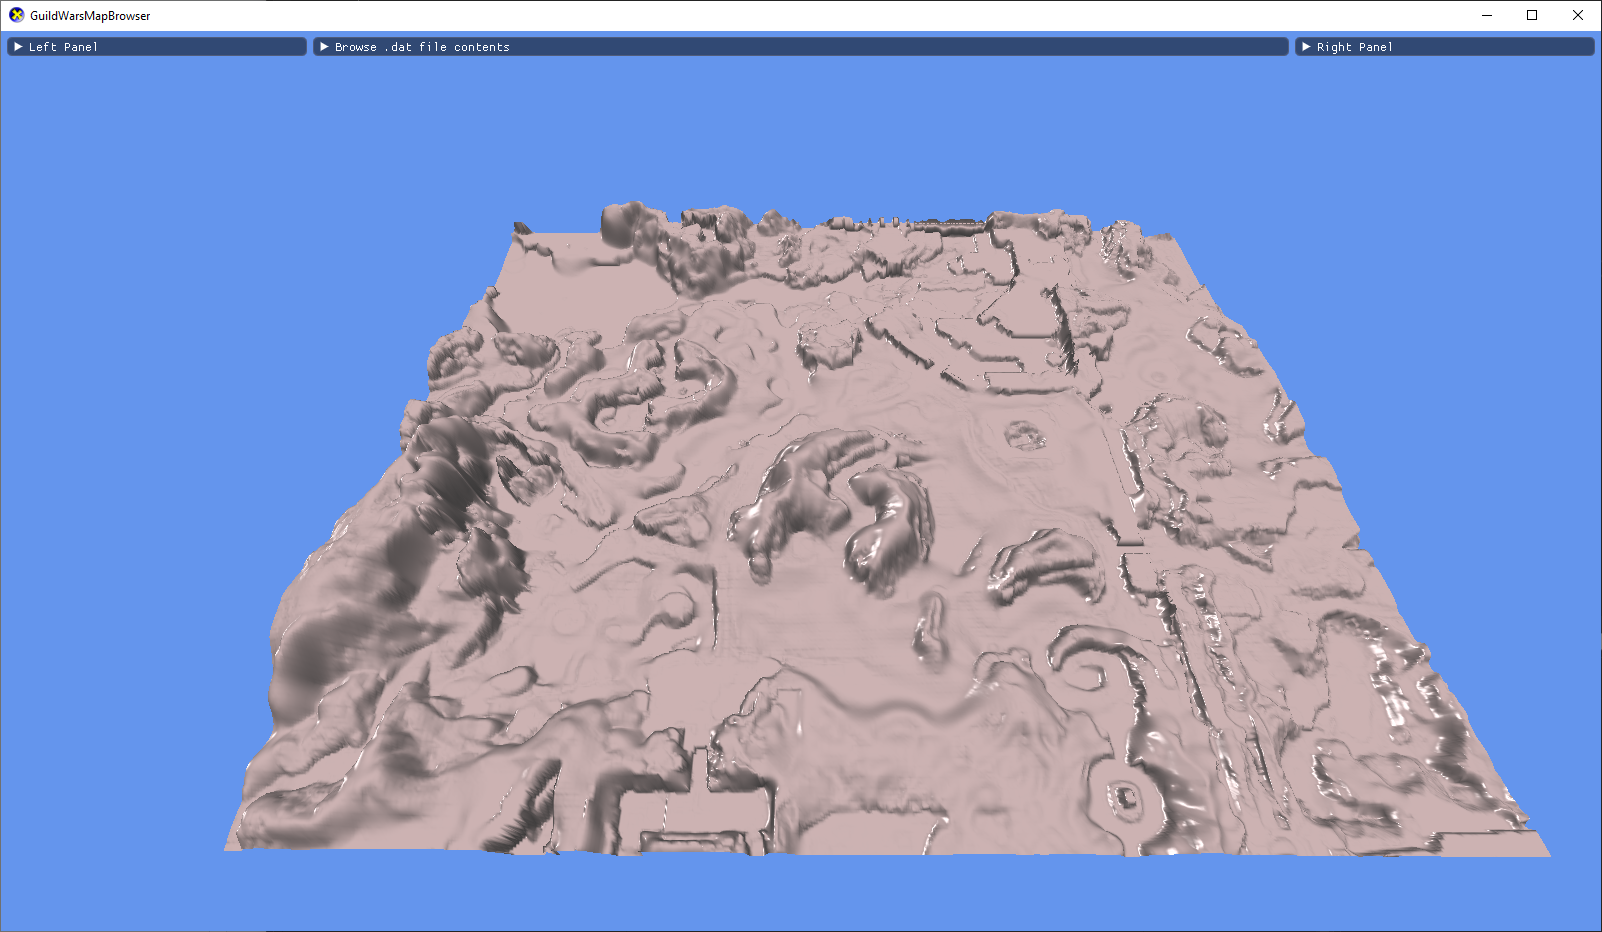
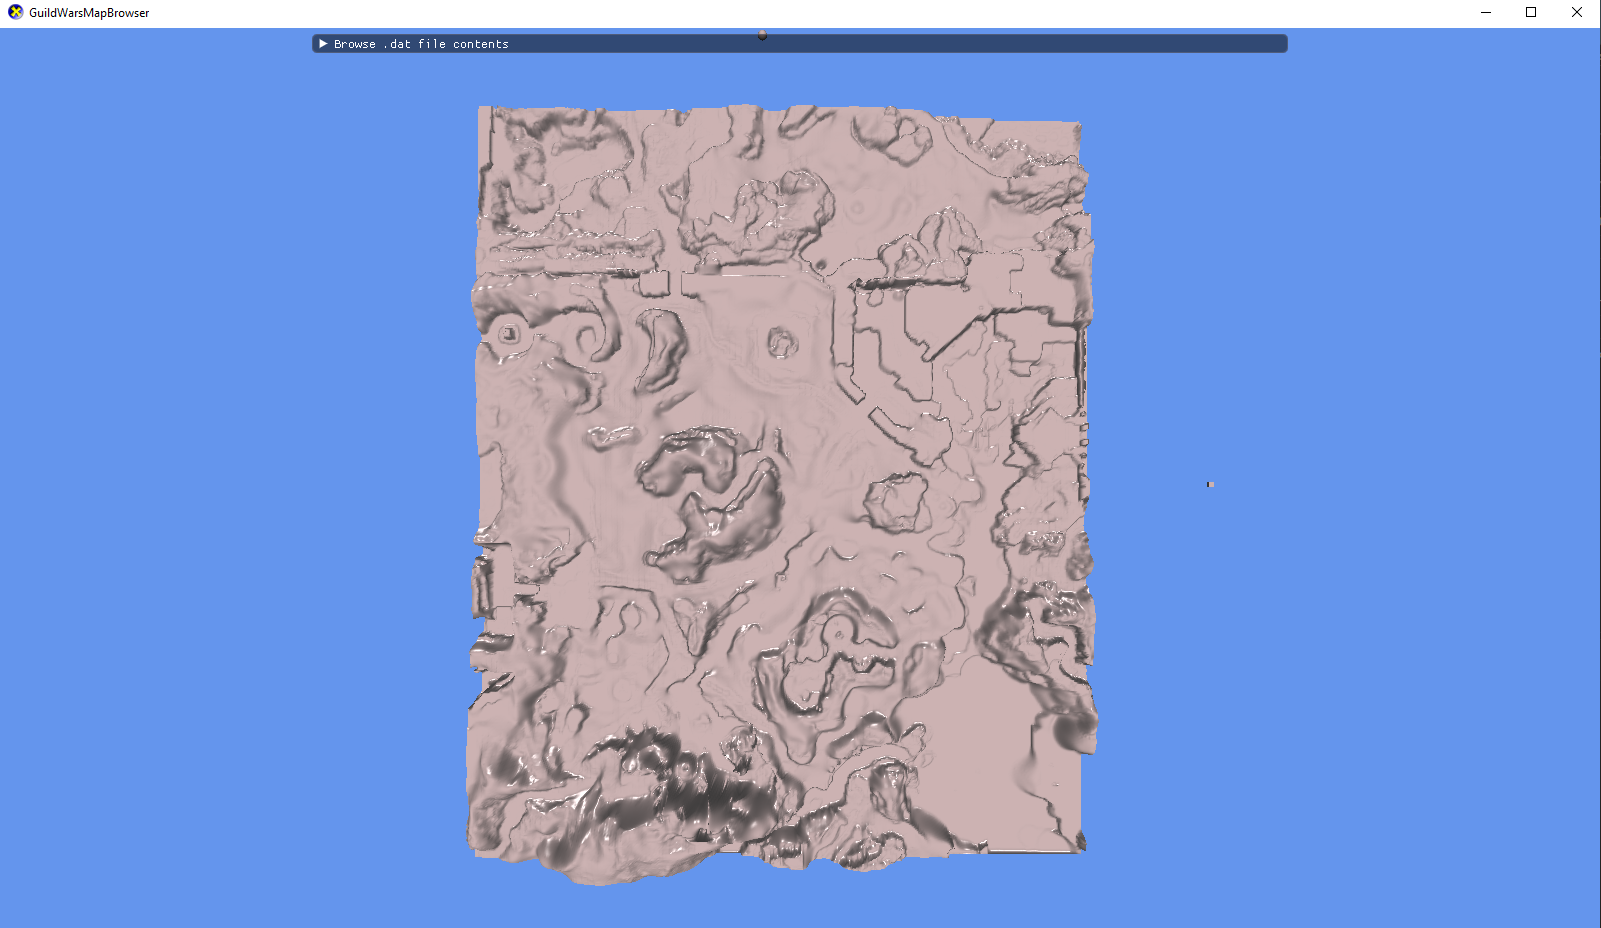
Fixed the y-axis being mirrored when rendering.

diff --git a/SourceFiles/Terrain.h b/SourceFiles/Terrain.h
@@ -49,7 +49,7 @@ private:
                 {
                     for (int l = col_start; l < col_end; l++)
                     {
-                        grid[k][l] = -m_heightMap[count];
+                        grid[m_gridDimY - k][l] = -m_heightMap[count];
                         count++;
                     }
                 }
